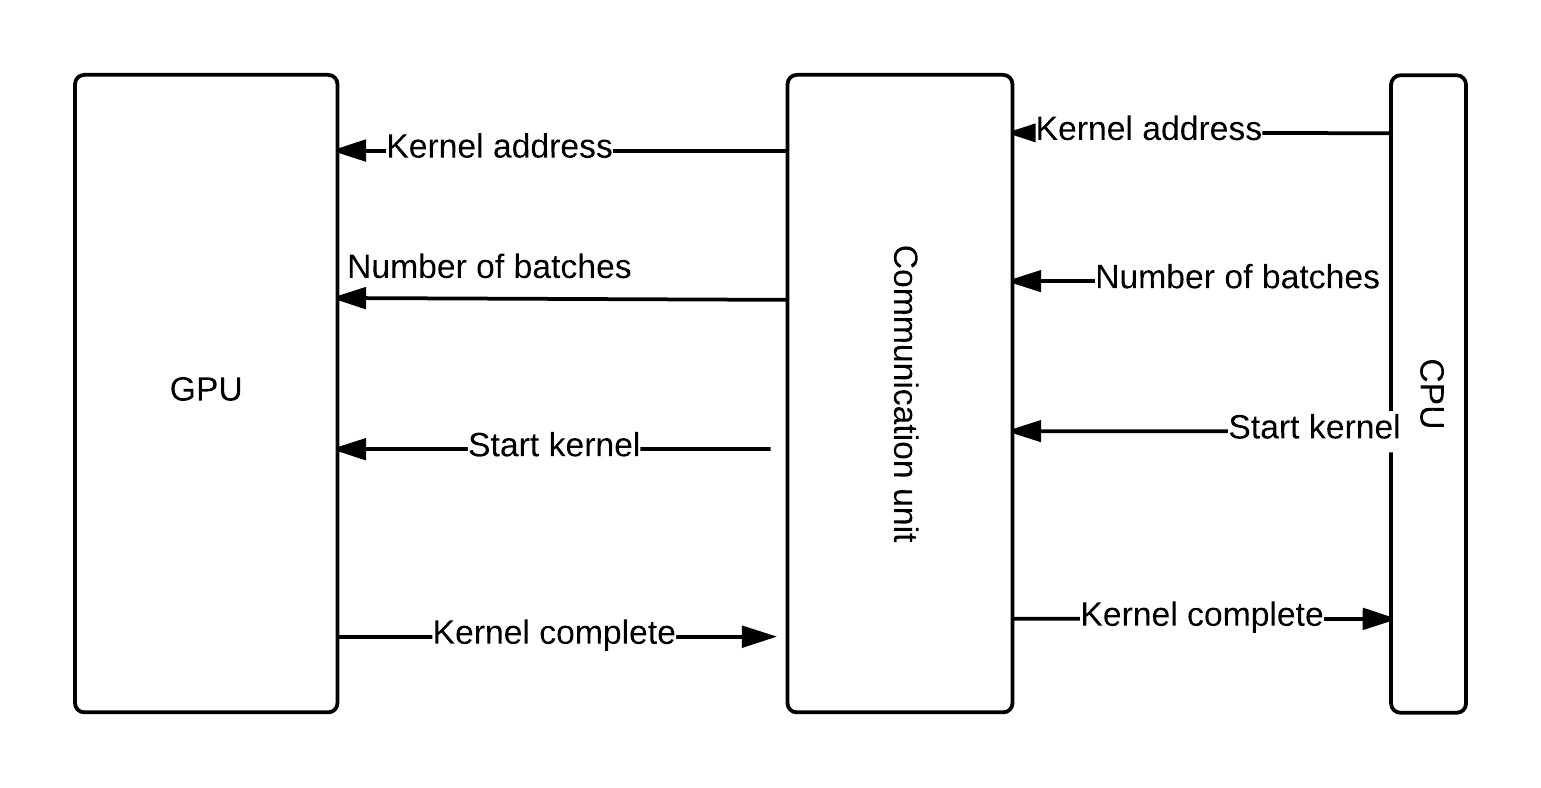
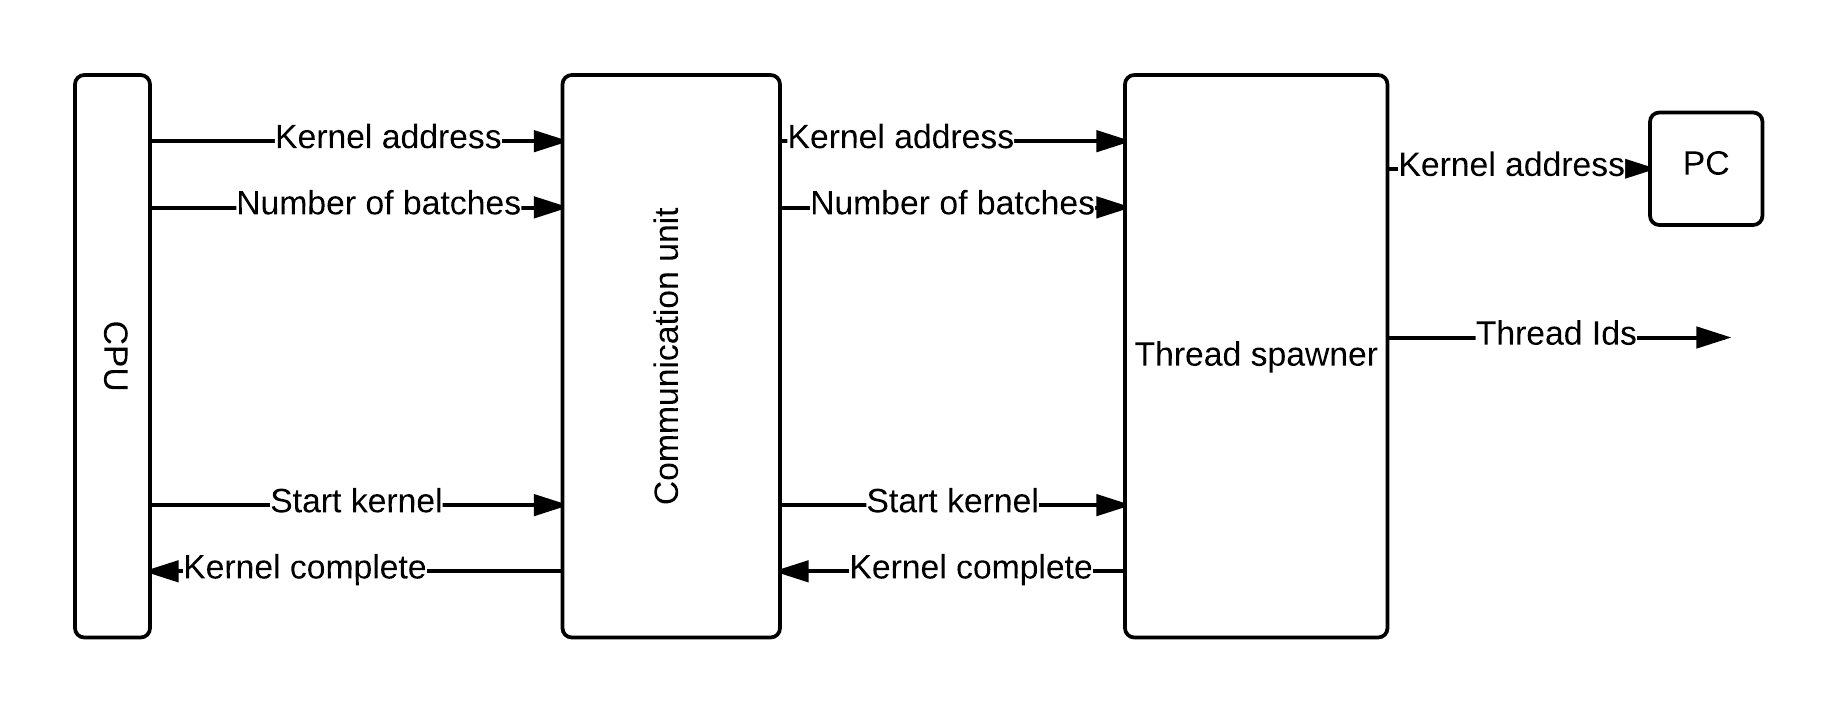
flip image, and readd thread spawner

diff --git a/report/gpu/gpu.tex b/report/gpu/gpu.tex
@@ -33,15 +33,15 @@ The GPU has a relatively simple job:
 \begin{figure}[H]
 \centering
 \includegraphics[scale=0.2]{gpu/diagrams/receiving_a_kernel_call.png}
-\caption{Launcing a kernel, from the GPU's viewpoint.}
+\caption{Launcing a kernel from the GPU's viewpoint.}
 \label{kernel_call}
 \end{figure}
 The communication unit is responsible for receiving kernel call requests from the CPU, and initiating the request.
 A valid kernel call consists of the address of the kernel, the number of batches to launch, and asserting the launch signal.
 
-The kernel launch signals are forwarded to the GPU, which initiates the kernel internally. 
-After holding the kernel launch signals high for one clock cycle, the communication unit has completed its role in launching the kernel, and the GPU will run the kernel to completion.
-When the kernel completes executing the GPU asserts the kernel done signal, and the communication unit forwards the signal to the CPU indicating that the kernel call has completed.
+The kernel launch signals are forwarded to the thread spawner, which writes the kernel start address to the PC register, and starts distributing threadIDs to the streaming processors. 
+After holding the kernel launch signals high for one clock cycle, the communication unit has completed its role in launching the kernel.
+When the kernel completes executing the thread spawner asserts the kernel done signal, and the communication unit forwards the signal to the CPU indicating that the kernel call has completed.
 
 
 \section{Running a Kernel}
